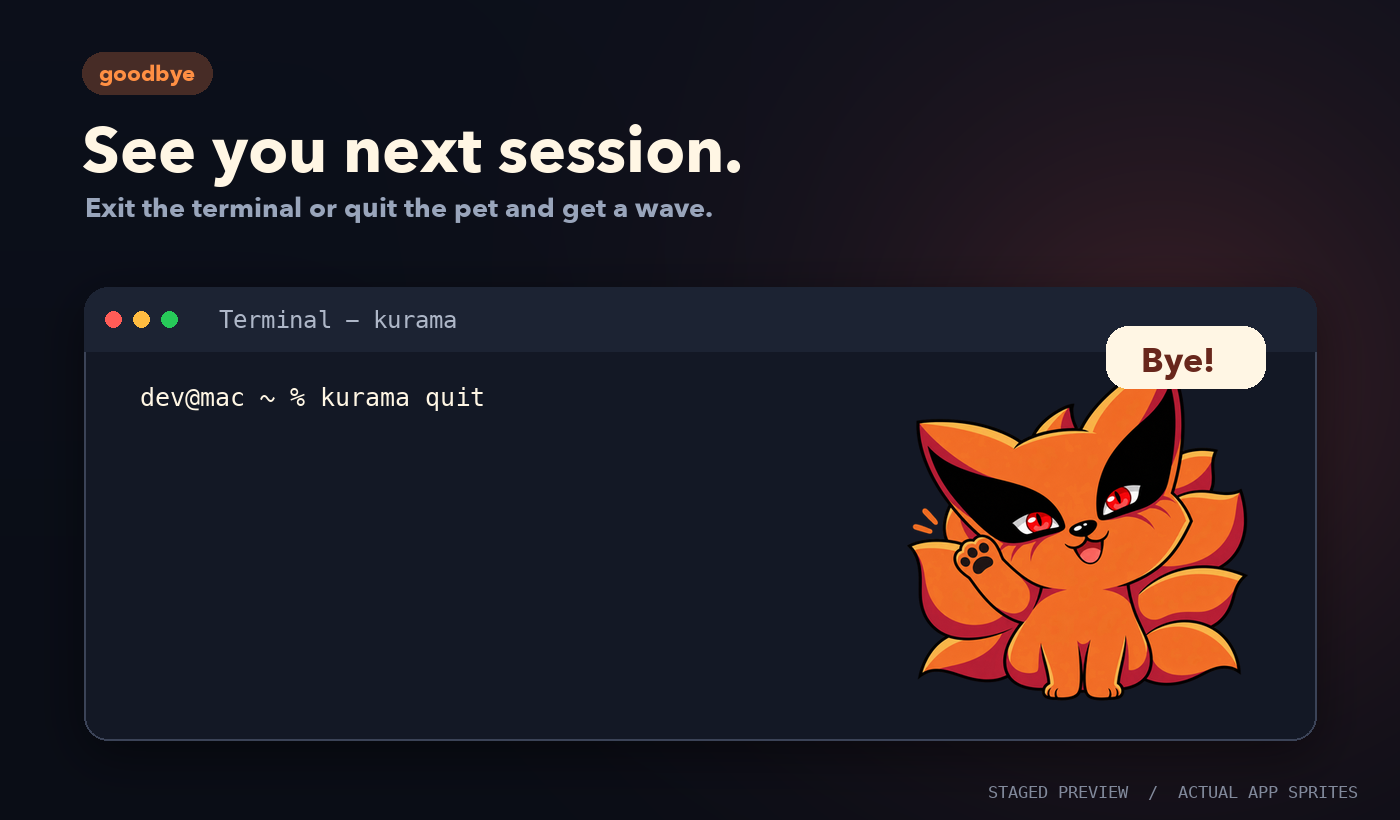
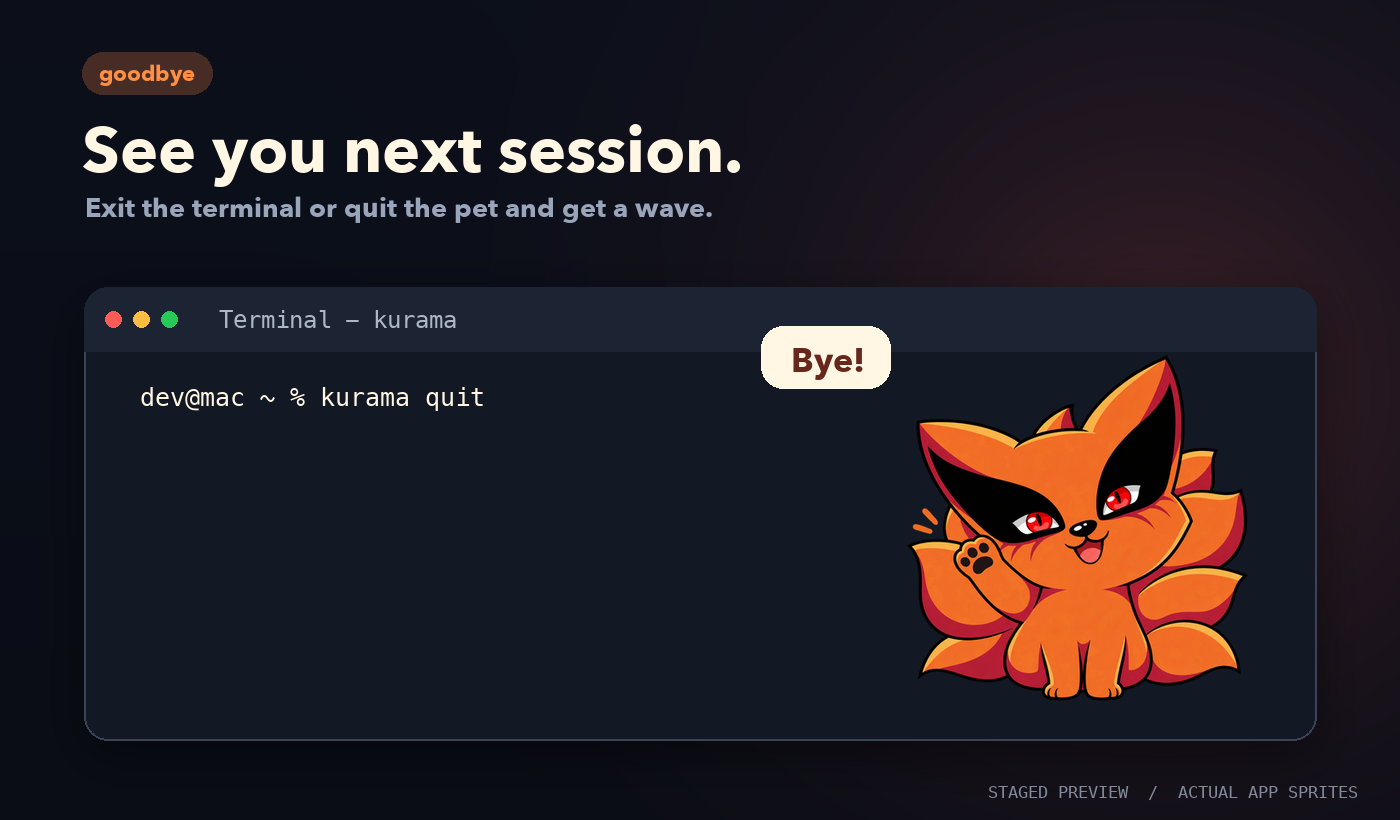
Move goodbye bubble left and restore right-edge placement

Changed region(s): [[0.7679, 0.3963, 0.9214, 0.4878], [0.5221, 0.3963, 0.645, 0.4878]]

diff --git a/Kurama.swift b/Kurama.swift
@@ -56,20 +56,20 @@ final class PetView: NSView {
         guard let image = images[pose == "goodbye" ? "wave" : pose] ?? images["idle"], let context = NSGraphicsContext.current?.cgContext else { return }
         let tilt = pose == "wave" || pose == "goodbye" ? sin(tick * 13.0) * 0.045 : 0.0
         context.saveGState()
-        context.translateBy(x: 90, y: 100)
+        context.translateBy(x: pose == "goodbye" ? 195 : 90, y: 100)
         context.rotate(by: tilt)
         image.draw(in: NSRect(x: -84, y: -90, width: 168, height: 180),
                    from: .zero, operation: .sourceOver, fraction: 1)
         context.restoreGState()
         if pose == "goodbye" {
-            let bubble = NSRect(x: 179, y: 135, width: 88, height: 40)
+            let bubble = NSRect(x: 12, y: 135, width: 88, height: 40)
             NSColor(calibratedRed: 1, green: 0.96, blue: 0.88, alpha: 0.96).setFill()
             NSBezierPath(roundedRect: bubble, xRadius: 12, yRadius: 12).fill()
             let style: [NSAttributedString.Key: Any] = [
                 .font: NSFont.boldSystemFont(ofSize: 15),
                 .foregroundColor: NSColor(calibratedRed: 0.48, green: 0.12, blue: 0.05, alpha: 1)
             ]
-            ("Bye!" as NSString).draw(at: NSPoint(x: 200, y: 146), withAttributes: style)
+            ("Bye!" as NSString).draw(at: NSPoint(x: 33, y: 146), withAttributes: style)
         }
     }
 
@@ -109,7 +109,7 @@ final class PetApp: NSObject, NSApplicationDelegate {
         try? FileManager.default.createDirectory(at: root, withIntermediateDirectories: true)
         try? String(ProcessInfo.processInfo.processIdentifier).write(to: pidFile, atomically: true, encoding: .utf8)
 
-        let frame = NSRect(x: 0, y: 0, width: 285, height: 205)
+        let frame = NSRect(x: 0, y: 0, width: 180, height: 205)
         window = NSWindow(contentRect: frame, styleMask: [.borderless], backing: .buffered, defer: false)
         window.isOpaque = false
         window.backgroundColor = .clear
@@ -170,6 +170,13 @@ final class PetApp: NSObject, NSApplicationDelegate {
     @objc private func quit() {
         guard !quitting else { return }
         quitting = true
+        let oldFrame = window.frame
+        let expandedSize = NSSize(width: 285, height: oldFrame.height)
+        let desiredOrigin = NSPoint(x: oldFrame.minX - (expandedSize.width - oldFrame.width), y: oldFrame.minY)
+        let screen = window.screen ?? NSScreen.main
+        let origin = screen.map { onScreen(desiredOrigin, size: expandedSize, visible: $0.visibleFrame) } ?? desiredOrigin
+        window.setFrame(NSRect(origin: origin, size: expandedSize), display: true)
+        pet.setFrameSize(expandedSize)
         show("goodbye")
         DispatchQueue.main.asyncAfter(deadline: .now() + 1.8) { NSApp.terminate(nil) }
     }

diff --git a/tools/render_previews.py b/tools/render_previews.py
@@ -161,8 +161,8 @@ terminal(goodbye, (84, 287, 1316, 740), [
 ], text_size=25)
 sprite(goodbye, "wave", (887, 346, 1266, 727))
 d = ImageDraw.Draw(goodbye)
-d.rounded_rectangle((1106, 326, 1265, 388), 22, fill=(255, 246, 228))
-d.text((1141, 338), "Bye!", font=font(34), fill=(104, 39, 28))
+d.rounded_rectangle((761, 326, 890, 388), 22, fill=(255, 246, 228))
+d.text((791, 338), "Bye!", font=font(34), fill=(104, 39, 28))
 footer(d, 1400, 820)
 save(goodbye, "goodbye-wave.png")
 
@@ -175,6 +175,10 @@ def animation_frame(pose, label):
         (f"% {label}", ORANGE),
     ], text_size=23)
     sprite(frame, pose, (570, 119, 848, 451))
+    if pose == "wave":
+        draw = ImageDraw.Draw(frame)
+        draw.rounded_rectangle((465, 151, 552, 192), 16, fill=(255, 246, 228))
+        draw.text((483, 156), "Bye!", font=font(21), fill=(104, 39, 28))
     return frame.convert("RGB")
 
 

diff --git a/README.md b/README.md
@@ -6,7 +6,7 @@ Code contributions are welcome under the [MIT license](LICENSE) and [contributin
 
 ![Kurama beside a terminal](https://raw.githubusercontent.com/saivarun1410/kurama-terminal/main/docs/previews/terminal-hero.png)
 
-A draggable, animated macOS Kurama that floats beside your terminal. It blinks every 1–2 seconds, alternates left and right head tilts about every 5 seconds, covers its eyes in privacy mode, and waves with a goodbye bubble when closed. Right click the pet for controls. Its position is remembered.
+A draggable, animated macOS Kurama that floats beside your terminal. It blinks every 1–2 seconds, alternates left and right head tilts about every 5 seconds, covers its eyes in privacy mode, and waves with a goodbye bubble on its left when closed. Right click the pet for controls. Its position is remembered.
 
 ## Screenshots and animation
 
